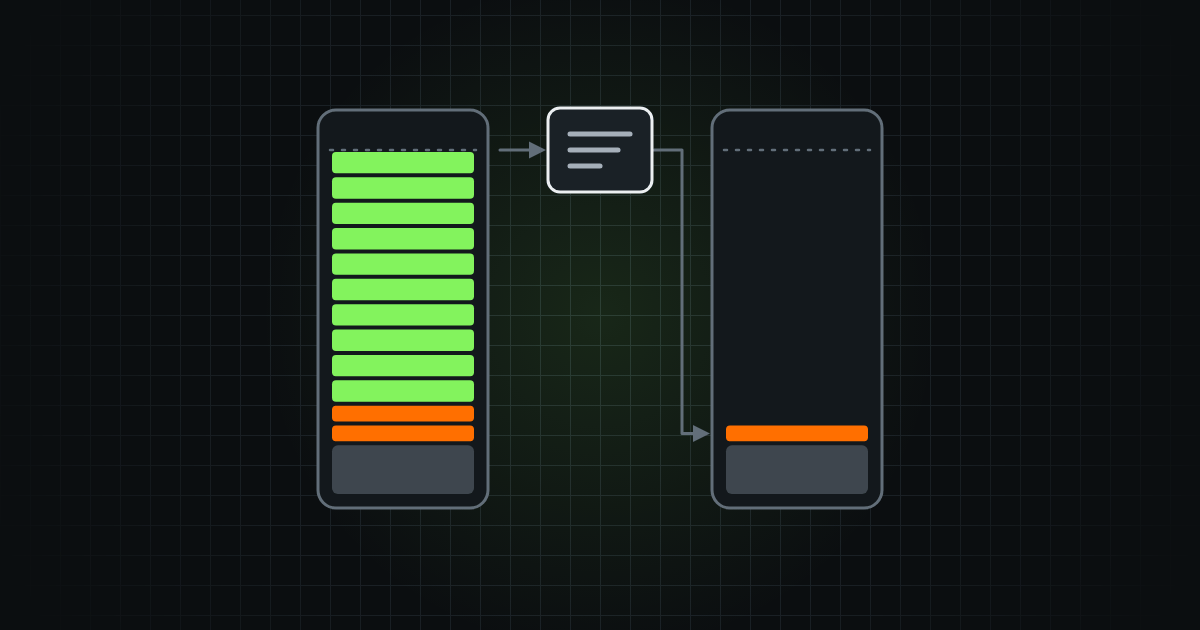
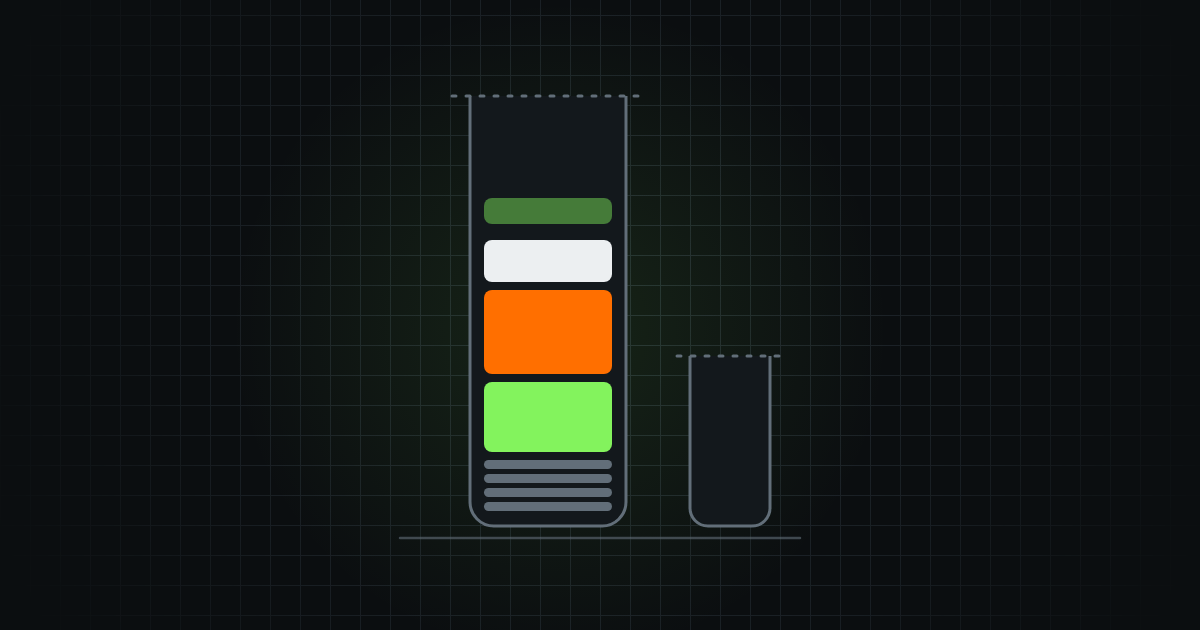
feat(blog): the deep dive on an agent's context gets its own cover
The draft's cover was a placeholder, a copy of the cover of "A study of the
mayor's context". This is its own, drawn as the article's figures draw the
context window (docs/images/what-fills-an-ai-agents-context.svg): one tall
bar, open at its dashed top, filling from its foot, a thin start-up layer of
four grey bands, then green, orange and white layers and a faint green layer
on its way in, and beside it on the same floor a small empty bar, a
subagent's own context. One window and no hand-off, so it reads apart from the
study's cover with its two windows and the note between them. No text; the
subject is inside the central 630 x 630 px.

The README's pipeline: a Chrome render at 1200 x 630 reduced to 256 colours
with Pillow's libimagequant (cover.png, 73,403 bytes, 183 colours), and the
WebP copies with cwebp -q 90 -m 6 -sharp_yuv from the 1200 render and from a
render of the same SVG at 600 x 315. The imageAlt in both languages now
describes this picture; no other line of either file changed.

Changed region(s): [[0.2467, 0.1508, 0.74, 0.8746]]

diff --git a/src/sv/blog/posts/what-fills-an-ai-agents-context.md b/src/sv/blog/posts/what-fills-an-ai-agents-context.md
@@ -2,7 +2,7 @@
 title: Vad som fyller en AI-agents kontext
 description: "Vad en AI-agent för kodning skickar till modellen i varje steg, hur en session fyller det utrymmet, vad en subagent håller utanför det och vad komprimeringen förlorar, så som leverantörerna beskrev det i november 2026, med Gas Citys planerade överlämning som exempel."
 image: cover.png                 # en PNG på 1200 × 630 i artikelns mediemapp
-imageAlt: "Två av borgmästarens sessioner bredvid varandra. Den förstas kontext har fyllts anrop för anrop: startinnehållet längst ner, omorienteringen i orange, sedan arbetet upp till den streckade överlämningspunkten. Vid överlämningen skriver borgmästaren läget i sitt arbete på ett kort; en ny session börjar på samma startinnehåll och läser kortet först."
+imageAlt: "En hög stapel, kontextfönstret, med en streckad linje som överkant fylls nerifrån i lager. Längst ner ligger ett tunt grått startlager av fyra band. Ovanpå det ligger ett grönt, ett orange och ett vitt lager. Ett blekt grönt lager är på väg in. Bredvid står en liten tom stapel, en subagents egen kontext."
 date: 2026-11-21
 category: ai-journey             # app-development | ai-journey
 translationKey: what-fills-an-ai-agents-context

diff --git a/src/en/blog/posts/what-fills-an-ai-agents-context.md b/src/en/blog/posts/what-fills-an-ai-agents-context.md
@@ -2,7 +2,7 @@
 title: What fills an AI agent's context
 description: "What an AI coding agent sends the model with every step, how a session fills that space, what a subagent keeps out of it and what compaction loses, as the vendors described it in November 2026, with Gas City's planned hand-off as the worked example."
 image: cover.png                 # a 1200 × 630 PNG in the article's media directory
-imageAlt: "Two of the mayor's sessions side by side. The first one's context has filled call by call: the start-up content at the bottom, re-orientation in orange, then the work up to the dashed hand-off point. At the hand-off the mayor writes the state of its work on a card; a new session starts on the same start-up content and reads it first."
+imageAlt: "A tall bar, the context window, with a dashed line for its top, fills from the bottom in layers. At its foot lies a thin grey start-up layer of four bands. On it lie a green, an orange and a white layer, and a faint green layer is on its way in. Beside it stands a small empty bar, a subagent's own context."
 date: 2026-11-21
 category: ai-journey             # app-development | ai-journey
 translationKey: what-fills-an-ai-agents-context
